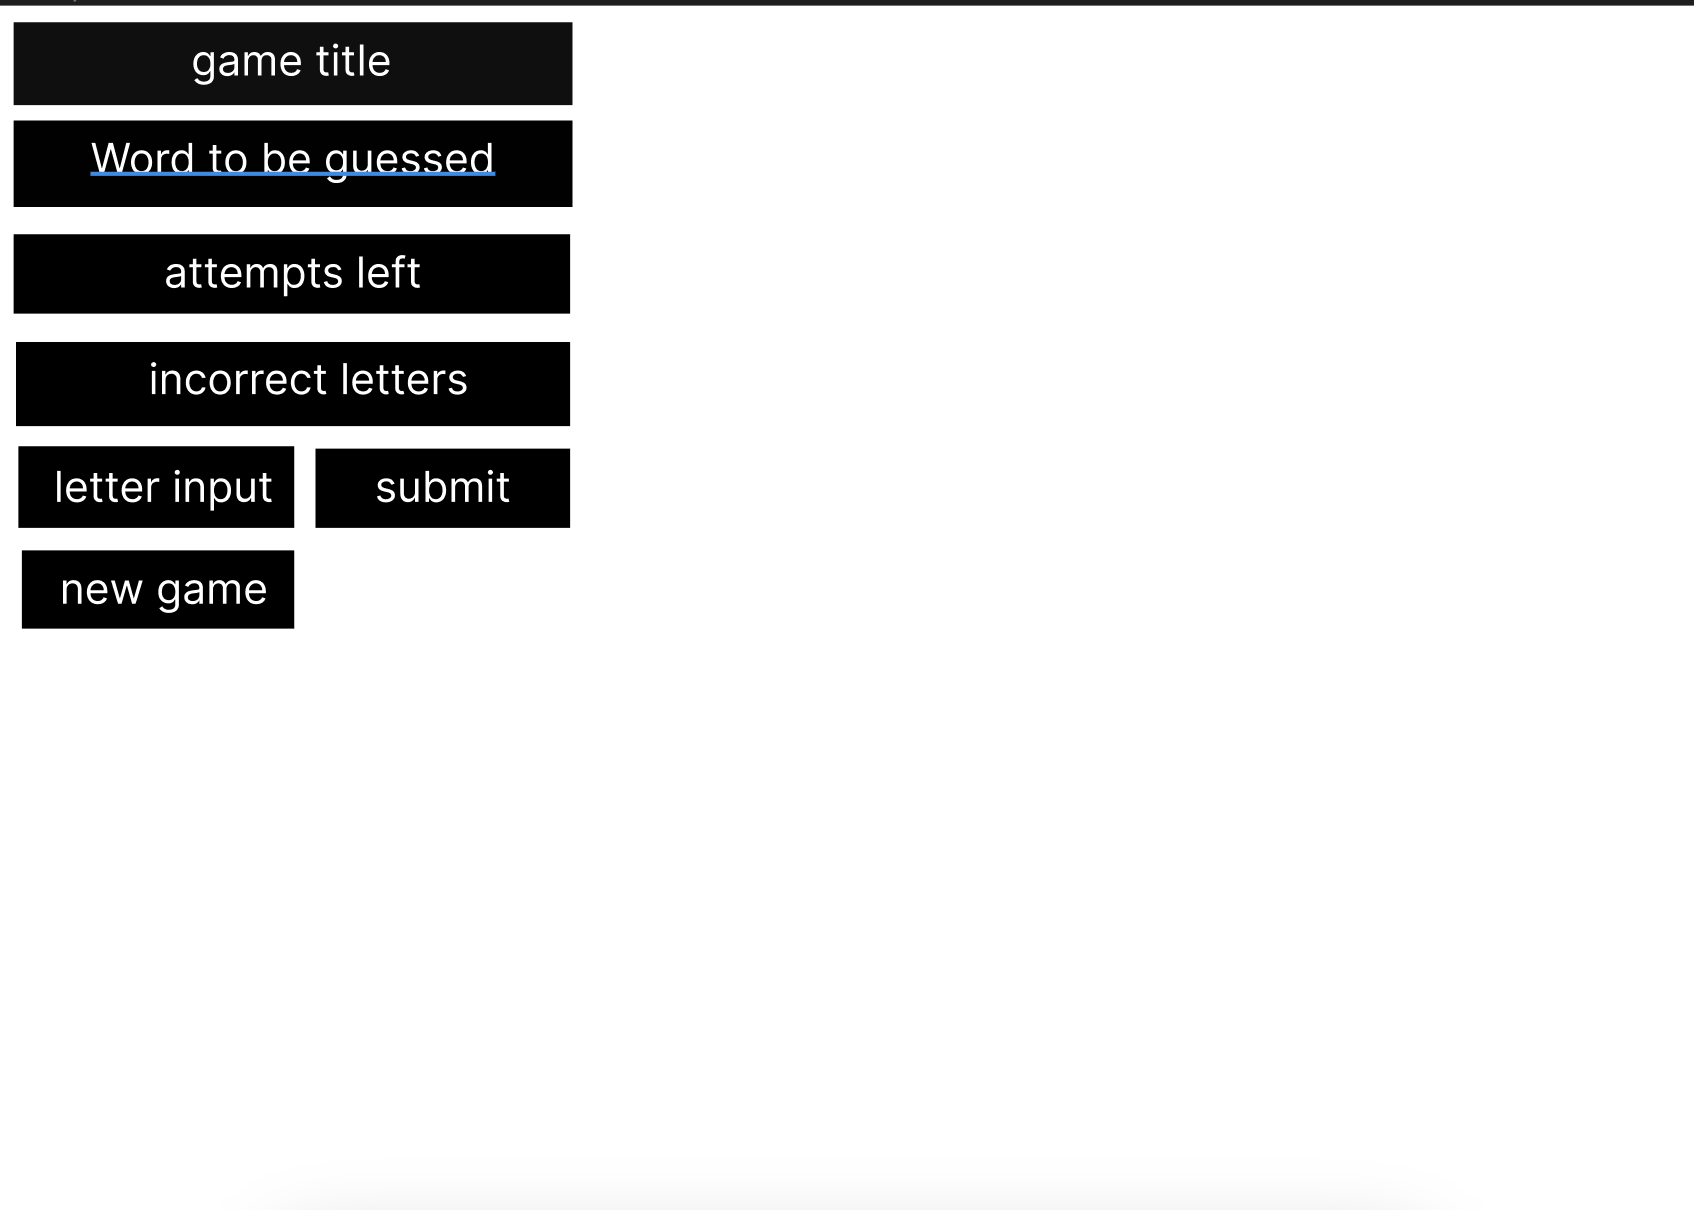
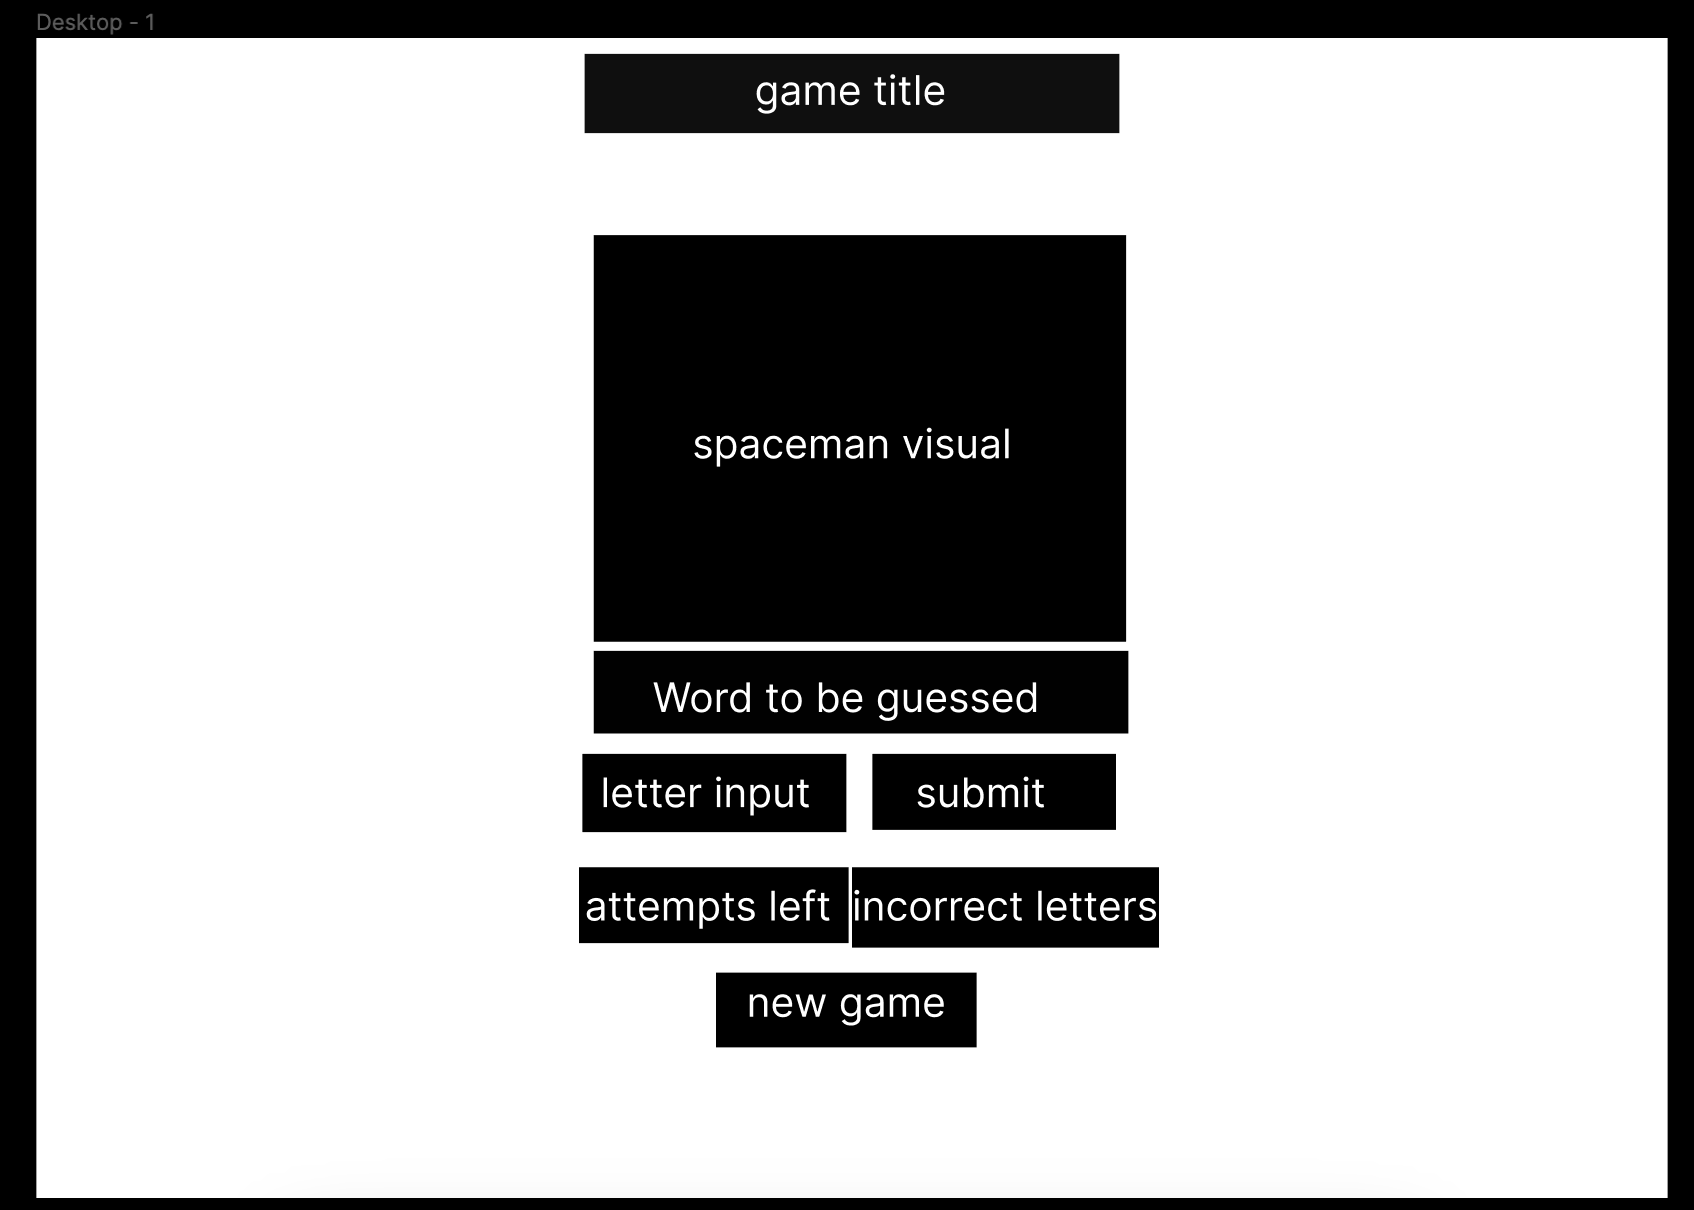
corrected mvp wireframe and reoriented user stories to match with pseudocode

diff --git a/README.md b/README.md
@@ -11,45 +11,31 @@ A cleaned up version of hangman that doesnt depict an execution.
 #### User stories
 
 - As a user I want to be able to play a game of "spaceman"
-- As a user I want to be able to see the word I am trying to guess
-- As a user I want to be able to guess a letter
-- As a user I want to be able to see the letters I have guessed incorrectly
-- As a user I want to be able to see the letters I have guessed correctly
-- As a user I want to see the number of attempts I have left
-- As a user I want to be able to start a new game
 
-#### pseudocode
-
-HTML 
-
-header with game name
-
-div with word to guess
-
-div with attempts left
-
-div with incorrect letters
-
-input for letter guess
-
-button to submit guess
-
-button to start new game
-
-
-JS
-
-let wordBank = ["word1", "word2", "word3"]
+`const wordBank = ["word1", "word2", "word3"]
 
 let random = Math.floor(Math.random() * wordBank.length)
 
+const images = ["image1", "image2", "image3"]
+
 let word = wordBank[random]
+
+let userInput = ""
 
 let attempts = 6
 
 let incorrect = []
 
-for loop to create underscores for word
+let imagestep = images[0]`
+
+- As a user I want to be able to see the word I am trying to guess
+- As a user I want to see the spaceman
+- As a user I want to be able to guess a letter
+- As a user I want to be able to see the letters I have guessed incorrectly
+- As a user I want to be able to see the letters I have guessed correctly
+- As a user I want to see the number of attempts I have left
+
+`for loop to create underscores for word
 
 function to check if letter is in word
 if letter is in word
@@ -57,6 +43,7 @@ if letter is in word
 else
     add letter to incorrect array
     subtract 1 from attempts
+    change image to next image
 
 function to check if word is guessed
 if word is guessed
@@ -68,13 +55,16 @@ function to check if any attempts are left
 if attempts are left
     continue game
 else
-    alert "you lose"
+    alert "you lose"`
 
-function to start new game
+- As a user I want to be able to start a new game
+
+`function to start new game
 reset attempts
 reset incorrect array
 reset word
-reset underscores
+reset underscores`
+
 
 ## version 2
 
